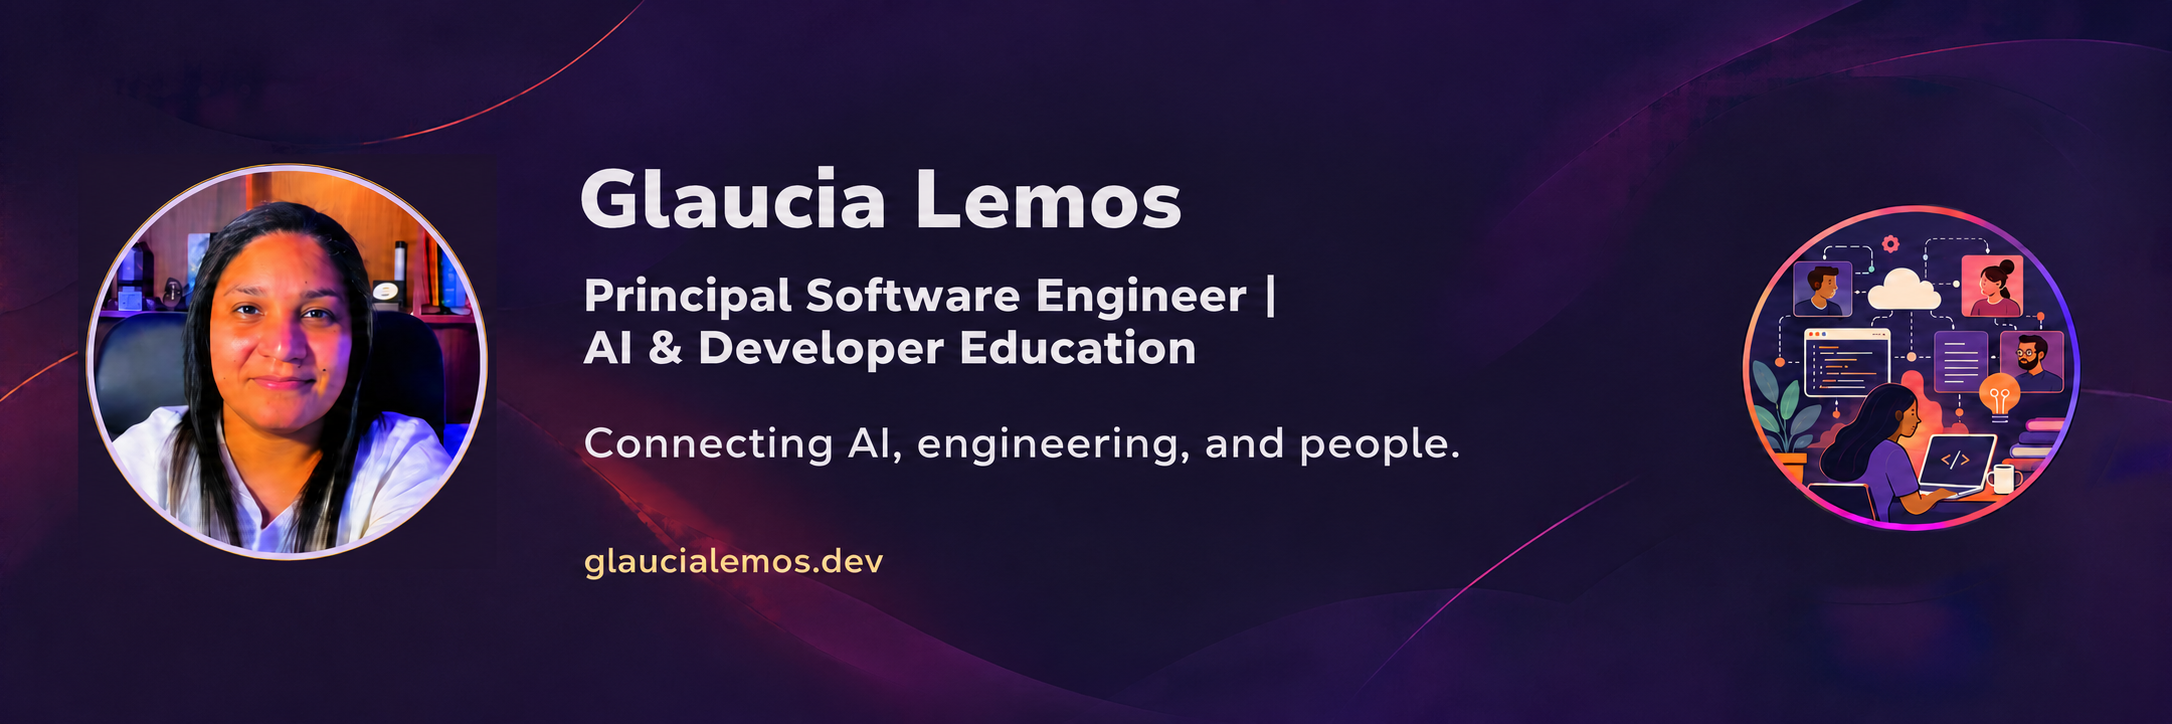
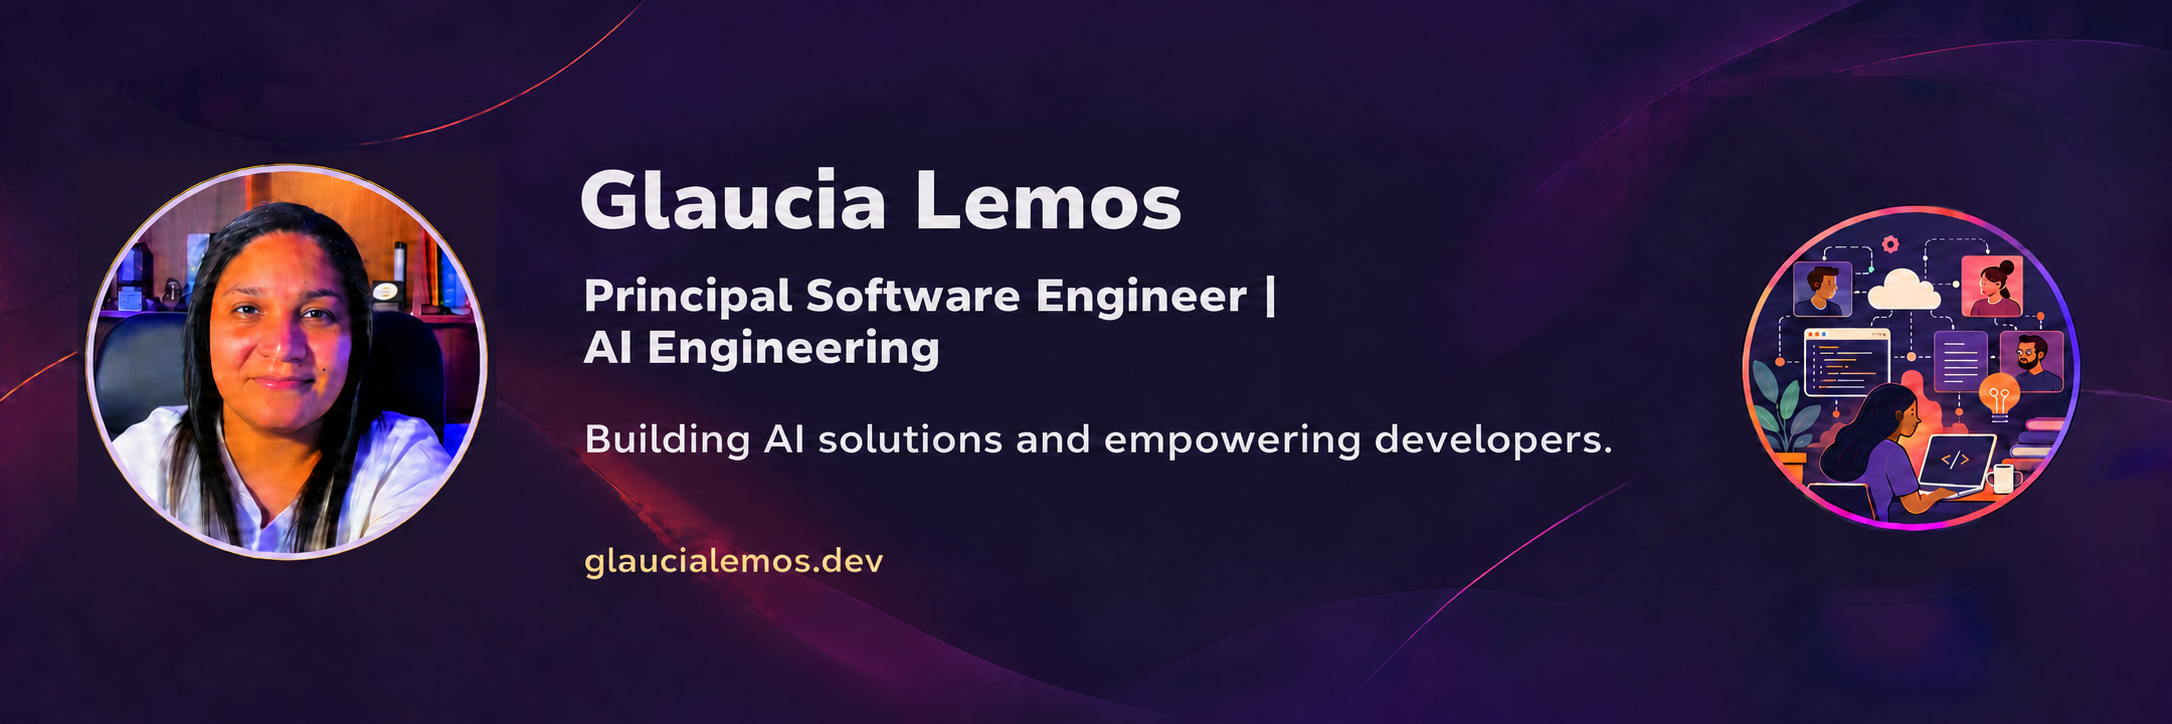
docs: emphasize AI engineering in profile positioning

diff --git a/README.md b/README.md
@@ -1,13 +1,13 @@
 [![Visitors](https://api.visitorbadge.io/api/visitors?path=glaucia86%2Fgithub-visitors-badge&countColor=%23263759)](https://visitorbadge.io/status?path=glaucia86%2Fgithub-visitors-badge)
 ![GitHub followers](https://img.shields.io/github/followers/glaucia86?style=social)
 
-[![Glaucia Lemos — Principal Software Engineer | AI & Developer Education](assets/glaucia-lemos-banner.png)](https://glaucialemos.dev)
+[![Glaucia Lemos — Principal Software Engineer | AI Engineering](assets/glaucia-lemos-banner.png)](https://glaucialemos.dev)
 
 ## Hi, Coders! I'm Glaucia 👋
 
-**Principal Software Engineer · AI & Developer Education · Open-source Contributor · Microsoft MVP · Codex Ambassador · Devin Ambassador**
+**Principal Software Engineer · AI Engineering · Open-source Contributor · Microsoft MVP · Codex Ambassador · Devin Ambassador**
 
-I'm a Principal Software Engineer based in Rio de Janeiro, Brazil. I work across product problems, software architecture, and AI systems—helping teams turn ideas into implementations they can understand, evaluate, and maintain.
+I'm a Principal Software Engineer based in Rio de Janeiro, Brazil, focused on AI engineering. I work across product problems, software architecture, and AI systems—helping teams turn ideas into implementations they can understand, evaluate, and maintain.
 
 My work combines hands-on engineering with technical leadership, drawing on more than a decade of software development and developer education. I focus on the decisions behind a solution: how its parts fit together, where AI adds value, and how to verify that the result meets the need.
 
